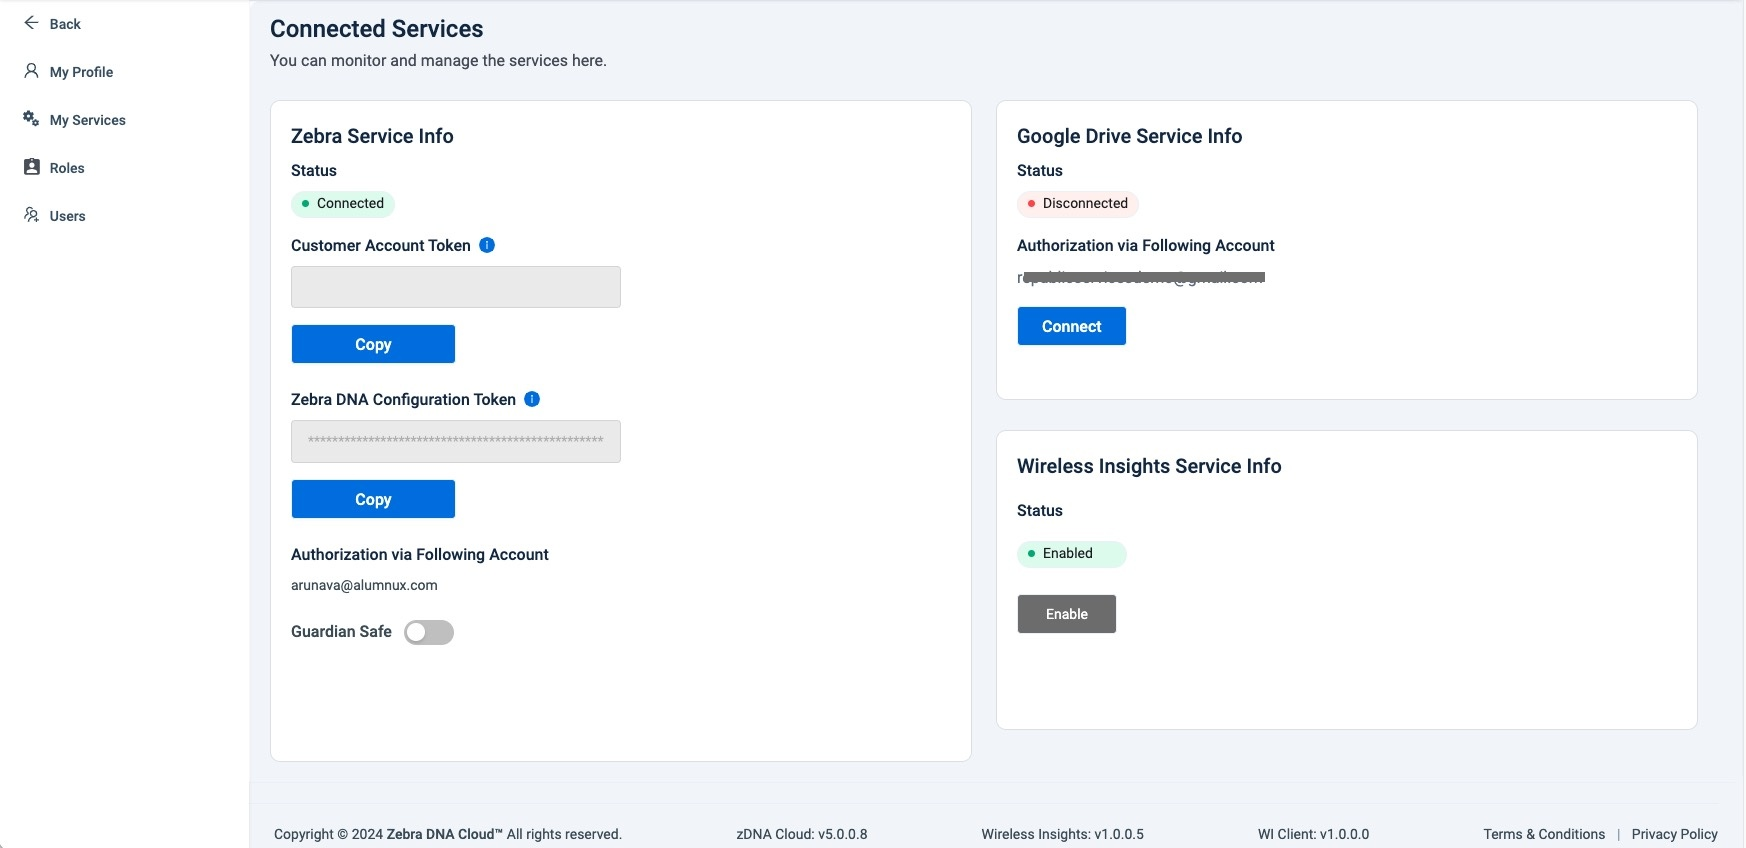
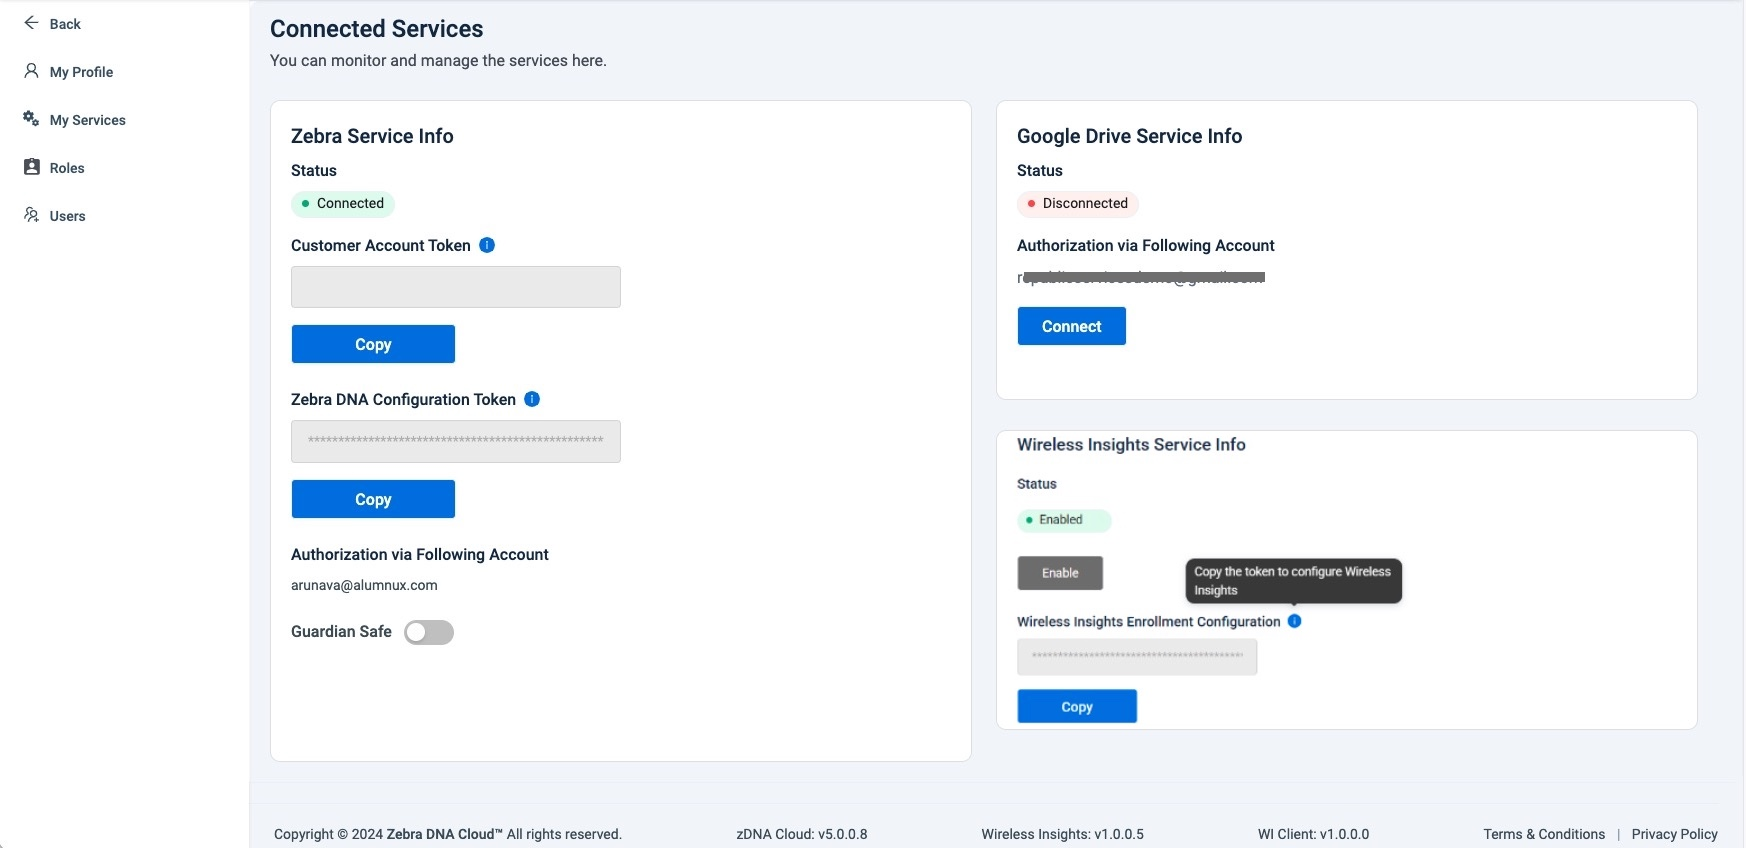
[TUT-107777; DLM-50327] ZDNA 5.3.1 updates, per eng; tweex

Changed region(s): [[0.5567, 0.5212, 0.8041, 0.8585]]

diff --git a/zebradna/5-3/support/wirelessinsights/index.html b/zebradna/5-3/support/wirelessinsights/index.html
@@ -247,18 +247,25 @@
                                     <div class="">
 
                                         <p></p><blockquote>
-  <p><i class="fa fa-calendar" style="color:#27AE60;"></i> <strong>LAST UPDATED: Mar. 12, 2025</strong></p>
+  <p><i class="fa fa-calendar" style="color:#27AE60;"></i> <strong>LAST UPDATED: April, 28, 2025</strong></p>
 </blockquote>
 
 <p></p><h2 id="overview" class="anchor"><a class="heading-anchor" href="#overview"><span></span></a>Overview</h2>
 
-<p><strong>The Wireless Insights service provides real-time performance data for active Zebra Android devices, including Wi-Fi and cellular connection events, signal strength and service quality by carrier, device and/or device group</strong>. The service is part of the Zebra Collection in My Apps section and is free to use on supported devices without additional licensing.</p>
+<p><strong>Wireless Insights provides real-time performance data for active Zebra Android devices, including Wi-Fi and cellular connection events, signal strength, and service quality by carrier, device and/or device group</strong>. A Zebra device agent is required on any device from which data is desired; it can be installed from the <a href="../usage/#zebracollection">Zebra Collection</a> or through a company's own EMM system. A license is required for production environments; trial licensing also is available.</p>
 
 <!-- 3/12/25 removed until EU server is deployed
 <i class="fa fa-exclamation-triangle" style="color:#FFA500;"></i> Wireless Insights is available only on DNA Cloud servers in North America. 
+
+4/25/25- replaced below wi_dashboard_overview.jpg
+
+put the below screens somewhere? 
+11_cell_insights_group.jpg
+11_wifi_insights_group.jpg
+
 -->
 
-<p><img alt="" style="height:350px" src="wi_dashboard_overview.jpg">
+<p><img alt="" style="height:350px" src="11_wi_dashboard_overview.jpg">
 <em>The Wireless Insights dashboard shows real-time Wi-Fi (top row) and cellular performance for active devices</em>.<br>
 <em>Click image to enlarge; ESC to exit</em>.
 <br></p>
@@ -269,15 +276,63 @@
 <li><strong>Wi-Fi performance</strong>: Any Zebra device running Android 13 or later </li>
 
 <li><strong>Cellular performance</strong>: A TC26 or any 6490-platform device running Android 13 or later</li>
+
+<li>MDNA Enterprise License for <a href="/licensing/about/#zebraprofessionalseriesdevices">Professional-series devices</a><br>
+<strong>See a list of <a href="https://supportcommunity.zebra.com/s/article/000022440?language=en_US">Zebra devices by platform</a></strong></li>
 </ul>
 
 <blockquote>
-  <p><i class="fa fa-check-circle" style="color:#27AE60;"></i> See a list of <a href="https://supportcommunity.zebra.com/s/article/000022440?language=en_US">Zebra devices by platform</a></p>
+  <p><i class="fa fa-exclamation-circle" style="color:#FF0000;"></i> <strong>Zebra strongly recommends applying the latest <a href="https://www.zebra.com/us/en/support-downloads/lifeguard-security.html">LifeGuard update(s)</a></strong> for optimal performance of this tool (see below). </p>
 </blockquote>
+
+<h4 id="optimallgupdateforandroid13" class="anchor"><a class="heading-anchor" href="#optimallgupdateforandroid13"><span></span></a>Optimal LG Update for Android 13:</h4>
+
+<ul>
+<li><strong>4490</strong>: <code>NE_FULL_UPDATE_13-24-08.00-TG-U00-STD-NEM-04.zip</code></li>
+
+<li><strong>5340</strong>: <code>AT_FULL_UPDATE_13-34-23.00-TG-U00-STD-ATH-04.zip</code><i>*</i> </li>
+
+<li><strong>5340</strong>: <code>AT_FULL_UPDATE_13-36-10.00-TG-U00-STD-ATH-04.zip</code><i>†</i> </li>
+
+<li><strong>6375</strong>: Supports all devices with LifeGuard March 2025 update (or later)</li>
+
+<li><strong>6490</strong>: <code>AT_FULL_UPDATE_13-34-23.00-TG-U00-STD-ATH-04.zip</code> </li>
+
+<li><strong>SDM600</strong>: Supports all devices with LifeGuard March 2025 update (or later)<br>
+<i><font size="2" color="DimGrey"> * Support includes EM45, TC22 and TC27</font></i><br>
+<i><font size="2" color="DimGrey"> † Support includes KC50</font></i> </li>
+</ul>
+
+<h4 id="optimallgupdateforandroid14" class="anchor"><a class="heading-anchor" href="#optimallgupdateforandroid14"><span></span></a>Optimal LG Update for Android 14:</h4>
+
+<ul>
+<li><strong>4490</strong>: Not yet available </li>
+
+<li><strong>5340</strong>: <code>AT_FULL_UPDATE_14-20-14.00-UG-U45-STD-ATH-04.zip</code><i>‡</i></li>
+
+<li><strong>6375</strong>: <code>GO_FULL_UPDATE_14-09-18.00-UG-U00-STD-GSE-04.zip</code> </li>
+
+<li><strong>6490</strong>: <code>AT_FULL_UPDATE_14-20-14.00-UG-U45-STD-ATH-04.zip</code> </li>
+
+<li><strong>SDM660</strong>: <code>HE_FULL_UPDATE_14-23-05.00-UG-U00-STD-HEL-04.zip</code><br>
+<i><font size="2" color="DimGrey"> ‡ Support includes TC22 and TC27</font></i></li>
+</ul>
+
+<p><strong>See a list of <a href="https://supportcommunity.zebra.com/s/article/000022440?language=en_US">Zebra devices by platform</a></strong></p>
+
+<!-- when the docs are ready, add the following link to the section above: 
+
+wording subject to change: 
+
+><i class="fa fa-exclamation-triangle" style="color:#FFA500;"></i> **Use of Wireless Insights without updating device BSPs** requires these [additional setup steps](/wireless-insights/z-agent/#delegationscope). 
+
+ -->
 
 <hr>
 
 <h2 id="usingwirelessinsights" class="anchor"><a class="heading-anchor" href="#usingwirelessinsights"><span></span></a>Using Wireless Insights</h2>
+
+<p>Before proceeding, please be sure to <strong><a href="#enablingwirelessinsights">enable Wireless Insights</a></strong>, (one-time requirement).  </p>
 
 <ol>
 <li><p><strong>Click "Support Tools"</strong> From the DNA Cloud Dashboard to expose available modules: 
@@ -351,7 +406,7 @@ Within that Group, <strong>click Wi-Fi or Cellular</strong> in a device row to v
 
 <h2 id="enablingwirelessinsights" class="anchor"><a class="heading-anchor" href="#enablingwirelessinsights"><span></span></a>Enabling Wireless Insights</h2>
 
-<p><strong>Wireless Insights requires an agent to be present on all devices</strong> from which wireless data is to be extracted. There's also a one-time configuration change in the "My Services" section of the DNA Cloud console. Details below. </p>
+<p><strong>DNA Cloud's Wireless Insights Dashboard requires the Zebra Wireless Insights agent to be present on all devices</strong> from which wireless data is to be extracted. There's also a one-time configuration change in the "My Services" section of the DNA Cloud console. Details are below. </p>
 
 <h4 id="tosetupwirelessinsights" class="anchor"><a class="heading-anchor" href="#tosetupwirelessinsights"><span></span></a>To Set Up Wireless Insights</h4>
 
@@ -372,9 +427,9 @@ In the Wireless Insights Service Info box, <strong>click "Enable" button</strong
 <br>
 <br></p></li>
 
-<li><p><strong>Click "Setup" button in "Wireless Insights"</strong> tile of the Zebra Collection. </p></li>
+<li><p>To install the Wireless Insights agent, <strong>click the "Setup" button in "Wireless Insights" tile</strong> of the Zebra Collection. </p></li>
 
-<li><p><strong>See <a href="../../usage/#zebracollection">Setting up a Zebra App</a></strong> for further instructions. </p></li>
+<li><p><strong>Follow the prompts to complete the installation</strong> or go to <a href="../../usage/#zebracollection">Setting up a Zebra App</a> for extra help. </p></li>
 </ol>
 
 <hr>
@@ -429,9 +484,7 @@ FROM EARLY VERSION OF RELEASE NOTES:
 - UI responsiveness is faster 
 - User has option to move event time graph using a slider 
 
- -->
-
-<hr><p></p>
+ --><p></p>
                                         
 
 

diff --git a/zebradna/5-3/about/index.html b/zebradna/5-3/about/index.html
@@ -271,6 +271,46 @@
 
 <h2 id="newinzdna53" class="anchor"><a class="heading-anchor" href="#newinzdna53"><span></span></a>New in ZDNA 5.3</h2>
 
+<h3 id="may2025update" class="anchor"><a class="heading-anchor" href="#may2025update"><span></span></a>May 2025 Update</h3>
+
+<p><em>Applies to ZDNA 5.3.1</em></p>
+
+<p>• <strong>Adds support for EM45, KC50, PS30 and WT6400</strong> devices running Android 13 (<a href="#a13">See LifeGuard update requirements</a>, below)<br>
+• <strong>Includes <a href="../support/wirelessinsights">Wireless Insights 1.1</a></strong>, which delivers the following new features and enhancements: </p>
+
+<ul>
+<li><strong>Enhanced search functionality</strong> on Dashboard and Group Details pages</li>
+
+<li><strong>Sends email alerts based on predefined thresholds</strong> for Wi-Fi and cellular events</li>
+
+<li><strong>Enhances event-line graphing</strong>, including:
+
+
+<ul>
+<li>The ability to expand the event bar at a graph’s bottom</li>
+
+<li>Simplifies event bar movement for alignment with event locations</li>
+
+<li>New Y-axis more easily visualizes packet loss</li></ul>
+</li>
+
+<li>Default line-graph duration extended to one hour</li>
+
+<li><strong>Supplementary events can now be toggled</strong> on the Wi-Fi device details page</li>
+
+<li><strong>For cellular events, the timeline IRAT* X-axis order has been updated</strong> to IWLAN &gt; NR_SA &gt; LTE &gt; 3G</li>
+
+<li><strong>Adds “Roam retry started” and “Roam retry completed” events</strong> to the Wi-Fi device details page</li>
+
+<li><strong>Supports intents</strong> for configuring Analysis start/stop and setting Group Name  </li>
+
+<li><strong>Supports managed configurations</strong> for configuring My Services settings </li>
+</ul>
+
+<p><i><font size="1" color="DimGrey">* Inter-radio access technology (IRAT) functions include switching between Wi-Fi and cellular radios to maintain an active connection.</font></i> </p>
+
+<h3 id="alsonewin53" class="anchor"><a class="heading-anchor" href="#alsonewin53"><span></span></a>Also new in 5.3</h3>
+
 <ul>
 <li><strong>Introduces DNA Cloud client for devices running Android 14</strong><i>†</i></li>
 
@@ -335,6 +375,8 @@
 </tbody></table>
 
 
+<p><a id="a13"></a></p>
+
[1 lines of base64/hex data omitted]
 
 <table class="facelift" align="center" style="width:25%" border="1" padding="5px">
@@ -351,8 +393,13 @@
 </tr>
 
 <tr>
-<td>4490 (TC58e) <b><code>NEW!</code></b></td>
+<td><b>4490 (PS30, TC58e, WT6400) <code>NEW!</code></b></td>
 <td><code>13-26-13.00-TG-U00</code> (or later)</td>
+</tr>
+
+<tr>
+<td><b>5430 (EM45, KC50) <code>NEW!</code></b></td>
+<td><code>13-39-18.00-TG-U00</code> (or later)</td>
 </tr>
 
 <tr>
@@ -429,6 +476,13 @@
 <br></li>
 </ul>
 
+<!-- removed from below per PdM, not added to resolved, but.
+
+* **`NEW:` A renamed Group still appears with its original name in Group pop-ups**.
+
+* **`NEW:` In some cases, the license "IN USE" counter is incremented despite failure to allocate license(s) to a device**.<br>**TO REMEDY**: Change the licensing allocation preference from "Auto assignment" to any other setting (e.g. "By device model"). **[More info](../licensing/#iiiaddandapplylicenses)**.  
+-->
+
 <hr>
 
 <p><a id="knownissues"></a></p>
@@ -446,11 +500,7 @@
 <i class="fa fa-check-circle" style="color:#27AE60;"></i> Profiles newly created with ZDNA 5.3 are unaffected.</li></ul>
 </li>
 
-<li><strong><code>NEW:</code> A renamed Group still appears with its original name in Group pop-ups</strong>.</li>
-
 <li><strong><code>NEW:</code> Status of a deployment shows as "In-Progress" despite one or more devices in "Issue" state</strong>. </li>
-
-<li><strong><code>NEW:</code> In some cases, the license "IN USE" counter is incremented despite failure to allocate license(s) to a device</strong>.<br><strong>TO REMEDY</strong>: Change the licensing allocation preference from "Auto assignment" to any other setting (e.g. "By device model"). <strong><a href="../licensing/#iiiaddandapplylicenses">More info</a></strong>. </li>
 
 <li><strong>The “Lock Screen Visibility” feature of OEMConfig 13.3.0.5 (and later) is NOT supported</strong>. If enabled on the device, the lock screen appears blank on the ZDNA console during Remote Support sessions.</li>
 

diff --git a/zebradna/5-3/usage/index.html b/zebradna/5-3/usage/index.html
@@ -850,9 +850,9 @@ PLAY STORE
 
 <h3 id="mixeddeviceowners" class="anchor"><a class="heading-anchor" href="#mixeddeviceowners"><span></span></a>Mixed Device Owners</h3>
 
-<p>Zebra DNA Cloud 3.1 introduced the ability to support devices for which the DNA Cloud client is not the Device Owner. This allows administrators to manage mixed populations of devices together in ZDNA, with access to some ZDNA features for all devices. </p>
+<p>Zebra DNA Cloud can manage devices for which the DNA Cloud client is not the Device Owner. This allows administrators to manage mixed populations of devices–some owned by ZDNA, others by the company's EMM system–together in ZDNA. This provides administrators with ZDNA features applicable to all devices under management. </p>
 
-<h4 id="zdnaenablesadministratorsmanagingmixedpopulationsto" class="anchor"><a class="heading-anchor" href="#zdnaenablesadministratorsmanagingmixedpopulationsto"><span></span></a>ZDNA enables administrators managing mixed populations to:</h4>
+<h4 id="administratorsmanagingmixedpopulationscan" class="anchor"><a class="heading-anchor" href="#administratorsmanagingmixedpopulationscan"><span></span></a>Administrators managing mixed populations can:</h4>
 
 <ul>
 <li><strong>Perform remote support</strong> (except devices managed by SOTI) </li>
@@ -860,7 +860,12 @@ PLAY STORE
 <li><strong>Reboot device(s)</strong> </li>
 </ul>
 
-<!-- 2/19/25- per Adam:
+<!-- 
+
+4/17/25 old intro updated: 
+"Zebra DNA Cloud 3.1 introduced the ability..." 
+
+2/19/25- per Adam:
 
 Here is the list of things they can do in ZDNA (assuming they have a license):
 
@@ -1454,8 +1459,10 @@ When finished uploading files <strong>click Next</strong> to proceed: <br>
 <h3 id="appnotes" class="anchor"><a class="heading-anchor" href="#appnotes"><span></span></a>App Notes</h3>
 
 <ul>
-<li><strong><u>App Profiles can be edited and deployed only by a single user at a time</u></strong>.<br>
-<i class="fa fa-exclamation-circle" style="color:#FF0000;"></i> Attempts by multiple users to edit or apply app settings simultaneously results in unpredictable behavior. </li>
+<li><i class="fa fa-exclamation-circle" style="color:#FF0000;"></i> <strong>For <a href="#mixeddeviceowners">mixed-population devices</a> managed by an EMM that uses Google Cloud DPC as the Device Owner</strong>, Zebra-app upgrades and some other actions can require 24-48 hours to complete. </li>
+
+<li>App Profiles MUST be edited and deployed only by a <strong><u>single user at a time</u></strong>.<br>
+<i class="fa fa-exclamation-triangle" style="color:#FFA500;"></i> <strong>WARNING</strong>: Attempts by multiple users to edit and/or apply app settings simultaneously results in unpredictable behavior. </li>
 
 <li><strong>Individual file size restrictions</strong>: 
 
@@ -1647,9 +1654,10 @@ _Click image to enlarge; ESC to exit._
 
 <p><strong>The Android Updates function keeps enrolled devices up to date with the latest Android OS updates and security patches</strong>. Devices managed with this feature are subject to the behaviors listed below.</p>
 
-<blockquote>
-  <p><i class="fa fa-exclamation-circle" style="color:#FF0000;"></i> <strong>NOTICE: <u>Device upgrades to Android 14 are currently blocked</u> while a compatible DNA Cloud client is under development</strong>. </p>
-</blockquote>
+<!-- 4/17/25- A14 client is now available (ZDNA 5.3)
+
+> <i class="fa fa-exclamation-circle" style="color:#FF0000;"></i> **NOTICE: <u>Device upgrades to Android 14 are currently blocked</u> while a compatible DNA Cloud client is under development**.  
+-->
 
 <h3 id="updatenotes" class="anchor"><a class="heading-anchor" href="#updatenotes"><span></span></a>Update Notes</h3>
 

diff --git a/zebradna/5-3/support/rxlogger/index.html b/zebradna/5-3/support/rxlogger/index.html
@@ -359,26 +359,22 @@ When all data is entered, <strong>click "Next" to continue</strong>:
 <p><strong>The syntax for the Hosting Location field of Remote RxLogger is shown below, followed by an example</strong>:</p>
 
 <ul>
-<li><strong>Syntax</strong>:
+<li><strong>Syntax</strong>:<br>
+<code>ftp://user:password@host:port/URLpath</code></li>
 
-
-<ul>
-<li><code>ftp://user:password@host:port/URLpath</code></li></ul>
-</li>
-
-<li><strong>Example</strong>: 
-
-
-<ul>
-<li><code>ftp://user01:PassMe01@10.0.0.7:21/ftp</code></li></ul>
-</li>
+<li><strong>Example</strong>:<br> 
+<code>ftp://user01:PassMe01@10.0.0.7:21/ftp</code></li>
 </ul>
 
-<p><i class="fa fa-exclamation-circle" style="color:#FF0000;"></i> <strong>The special characters # ? / + (pound, question mark, slash, plus sign) are NOT supported</strong> in the user-name and password sections of the FTP URL. </p>
+<h4 id="iclassfafaexclamationcirclestylecolorff0000iimportant" class="anchor"><a class="heading-anchor" href="#iclassfafaexclamationcirclestylecolorff0000iimportant"><span></span></a><i class="fa fa-exclamation-circle" style="color:#FF0000;"></i> IMPORTANT:</h4>
 
-<blockquote>
-  <p>For further details, <strong>see <a href="https://supportcommunity.zebra.com/s/article/000030850?language=en_US">How to format an FTP/S server URL</a></strong> <i class="fa fa-external-link" style="color:#3498DB;"></i>, an article posted by the Zebra Tech Support team. </p>
-</blockquote><p></p>
+<ul>
+<li><strong><u>Only FTP and FTPS protocols are supported for hosting</u></strong>. Attempting to use HTTP or other protocols results in failure. </li>
+
+<li><strong>The special characters # ? / + (pound, question mark, slash, plus sign) are NOT supported</strong> in user-name or password sections of the FTP URL. </li>
+
+<li><strong>For further information</strong>, see <a href="https://supportcommunity.zebra.com/s/article/000030850?language=en_US">How to format an FTP/S server URL</a> <i class="fa fa-external-link" style="color:#3498DB;"></i>, an article posted by Zebra Tech Support. </li>
+</ul><p></p>
                                         
 
 
